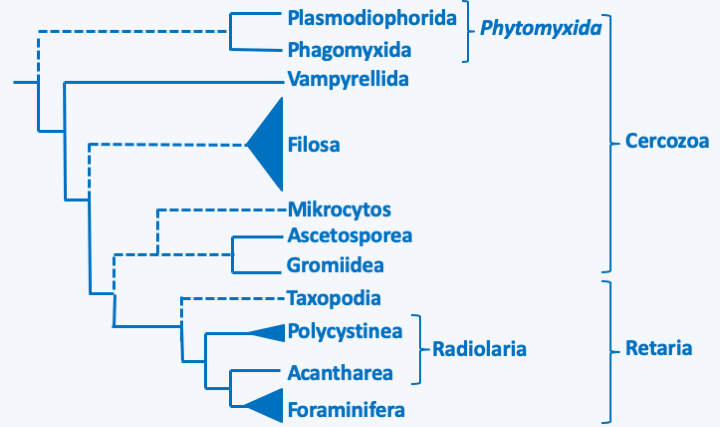
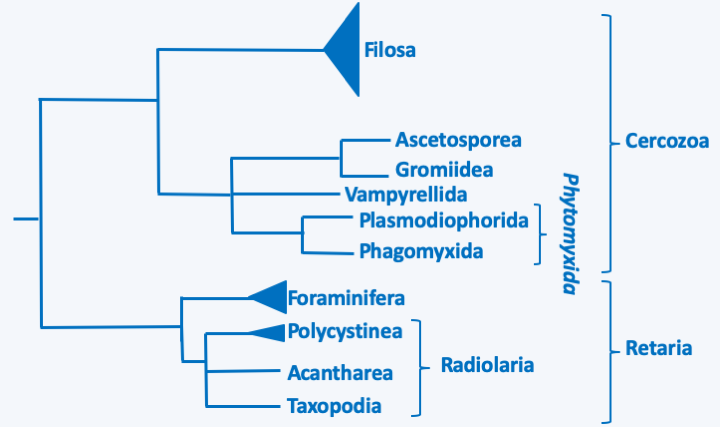
Part 2 done

diff --git a/book/Part2/phylogenetic_classification/sections/Rhizaria.md b/book/Part2/phylogenetic_classification/sections/Rhizaria.md
@@ -17,11 +17,11 @@ Often the different taxa of Rhizaria are only known by a few species. However, t
 
 <br>
 ## Cercozoa
-The Rhizaria super-branch is currently divided into two branches, Cercozoa and Retaria ({%- include fignum.html fn="331.rhizaria-phylo" -%}). However, that of Cercozoa, which groups together many lineages, appears to be paraphyletic. It is therefore probably destined to disappear.
+The Rhizaria super-branch is currently divided into two branches, Cercozoa and Retaria ({%- include fignum.html fn="331.rhizaria-phylo" -%}).
 
 <br>
 ### Plasmodiophorida & Phagomyxida
-The line that seems to diverge first is the Phytomyxida superclass ({%- include fignum.html fn="331.rhizaria-phylo" -%}), of which a few dozen species have been described. They are obligate intracellular parasites of plants, [Ochrophyta]({{ site.baseurl }}{% link book/Part2/phylogenetic_classification/sections/Ochrophyta.md %}) algae or [Oomycota]({{site.baseurl}}/book/Part2/phylogenetic_classification/sections/Stramenopila.html#oomycota) water molds. Two classes are defined, that of Plasmodiophorida which attacks terrestrial organisms and that of Phagomyxida which parasitizes marine organisms ({%- include fignum.html fn="331.rhizaria-phylo" -%}). For a long time, these two lineages were also defined by their hosts, the first attacking plants and the second algae, but the discovery that _Woronina pythii_, a pathogen of [Oomycota]({{site.baseurl}}/book/Part2/phylogenetic_classification/sections/Stramenopila.html#oomycota), is a Plasmodiophorida and that _Plasmodiophora diplanthereae_ which attacks plants is in fact a Phagomyxida has made this criterion obsolete. These organisms have an intracellular plasmodium in trophic form, which for a long time assimilated them with the obligate biotrophic fungi. Mitosis is unique in this group because it presents cross-shaped figures, hence the name cruciform mitosis ({%- include fignum.html fn="332.plasmodiophora" -%}). Phytomyxida disperse with the help of biflagellate zoospores. These enter their host using a characteristic method ({%- include fignum.html fn="333.penetrate" -%}).
+One of the lineages that seems to diverge first is the Phytomyxida superclass ({%- include fignum.html fn="331.rhizaria-phylo" -%}), of which a few dozen species have been described. They are obligate intracellular parasites of plants, [Ochrophyta]({{ site.baseurl }}{% link book/Part2/phylogenetic_classification/sections/Ochrophyta.md %}) algae or [Oomycota]({{site.baseurl}}/book/Part2/phylogenetic_classification/sections/Stramenopila.html#oomycota) water molds. Two classes are defined, that of Plasmodiophorida which attacks terrestrial organisms and that of Phagomyxida which parasitizes marine organisms ({%- include fignum.html fn="331.rhizaria-phylo" -%}). For a long time, these two lineages were also defined by their hosts, the first attacking plants and the second algae, but the discovery that _Woronina pythii_, a pathogen of [Oomycota]({{site.baseurl}}/book/Part2/phylogenetic_classification/sections/Stramenopila.html#oomycota), is a Plasmodiophorida and that _Plasmodiophora diplanthereae_ which attacks plants is in fact a Phagomyxida has made this criterion obsolete. These organisms have an intracellular plasmodium in trophic form, which for a long time assimilated them with the obligate biotrophic fungi. Mitosis is unique in this group because it presents cross-shaped figures, hence the name cruciform mitosis ({%- include fignum.html fn="332.plasmodiophora" -%}). Phytomyxida disperse with the help of biflagellate zoospores. These enter their host using a characteristic method ({%- include fignum.html fn="333.penetrate" -%}).
 
 {% include figure.html figname="332.plasmodiophora" caption="Cruciform mitosis in <i>Plasmodiophora brassicae</i>." %}
 
@@ -34,7 +34,7 @@ Some species of agronomic importance include _Plasmodiophora brassicae_, a paras
 
 <br>
 ### Vampyrellida
-The next class that diverges is that of the Vampyrellida. It currently includes a few dozen species, but metagenomics shows that these organisms are very diverse and ubiquitous in soils as well as freshwater and especially marine sediments. Their trophic stage is naked amoebae with filiform (threadlike) pseudopods, whose mode of nutrition is original ({%- include fignum.html fn="335.vampyrellid" -%}). Indeed, these trophozoites pierce the cell walls of their prey, various algae or yeasts and molds, and suck their contents, like a vampire. Some may, however, swallow their prey completely or penetrate inside and devour its contents. Most species have the potential to produce large plasmodia which result from the fusion of trophozoites. These plasmodia can fuse with each other and reach sizes greater than a millimeter. They can also differentiate several types of cysts, including those involved in digestion after ingestion of prey, or persistent cysts.
+Vampyrellida currently includes a few dozen species, but metagenomics shows that these organisms are very diverse and ubiquitous in soils as well as freshwater and especially marine sediments. Their trophic stage is naked amoebae with filiform (threadlike) pseudopods, whose mode of nutrition is original ({%- include fignum.html fn="335.vampyrellid" -%}). Indeed, these trophozoites pierce the cell walls of their prey, various algae or yeasts and molds, and suck their contents, like a vampire. Some may, however, swallow their prey completely or penetrate inside and devour its contents. Most species have the potential to produce large plasmodia which result from the fusion of trophozoites. These plasmodia can fuse with each other and reach sizes greater than a millimeter. They can also differentiate several types of cysts, including those involved in digestion after ingestion of prey, or persistent cysts.
 
 {% include figure.html figname="335.vampyrellid" caption="Diversity of Vampyrellida." %}
 
@@ -49,7 +49,7 @@ The Filosa sub-branch includes a large set of taxa with the status of class, sub
 
 <br>
 ### Ascetosporea, Gromiida and Mikrocytos
-The last line of Cercozoa, grouping together Ascetosporea, Gromiida and Mikrocytos, is probably monophyletic. Ascetosporea are parasites of aquatic invertebrates, including many shellfish farmed in aquaculture. There are two groups, the Haplosporidia which are intracellular and the Paramyxida which are extracellular and live in the digestive cavities of their hosts. Their life cycles ({%- include fignum.html fn="338.marteilia" -%}) seem complex and poorly understood, but involve the differentiation of plasmodia and/or spores in some of the known species. The Gromiida are free species whose trophic stage consists of a giant, multinucleated plasmodium, protected by an iron-rich protein **test** (shell), spherical or ovoid and pierced with one or more openings ({%- include fignum.html fn="339.gromia" -%}). From these openings emerge filiform pseudopods. Gromiida can grow to sizes of several centimeters. They live on the seabed, sometimes at very great depth, where they move by dragging or rolling and leave characteristic traces. Similar fossil traces have in the past been attributed to small primitive animals... _Mikrocytos mackini_ is an intracellular parasite of oysters ({%- include fignum.html fn="340.mikrocystis" -%}). Molecular phylogenies have great difficulty in resolving its phylogenetic position because its genome evolves very rapidly. It probably derives from Haplosporidia by regressive evolution. Indeed, this organism lacks mitochondria, but probably has a mitosome involved only in the assembly of "iron-sulfur" complexes. A related genus, _Paramikrocytos_, parasitizes crabs.
+The last lineage of Cercozoa, grouping together Ascetosporea and Gromiida, is probably monophyletic. Ascetosporea are parasites of aquatic invertebrates, including many shellfish farmed in aquaculture. There are two groups, the Haplosporidia which are intracellular and the Paramyxida which are extracellular and live in the digestive cavities of their hosts. Their life cycles ({%- include fignum.html fn="338.marteilia" -%}) seem complex and poorly understood, but involve the differentiation of plasmodia and/or spores in some of the known species. The Gromiida are free species whose trophic stage consists of a giant, multinucleated plasmodium, protected by an iron-rich protein **test** (shell), spherical or ovoid and pierced with one or more openings ({%- include fignum.html fn="339.gromia" -%}). From these openings emerge filiform pseudopods. Gromiida can grow to sizes of several centimeters. They live on the seabed, sometimes at very great depth, where they move by dragging or rolling and leave characteristic traces. Similar fossil traces have in the past been attributed to small primitive animals... _Mikrocytos mackini_ is an intracellular parasite of oysters ({%- include fignum.html fn="340.mikrocystis" -%}). Molecular phylogenies have great difficulty in resolving its phylogenetic position because its genome evolves very rapidly. It probably derives from Haplosporidia by regressive evolution. Indeed, this organism lacks mitochondria, but probably has a mitosome involved only in the assembly of "iron-sulfur" complexes. A related genus, _Paramikrocytos_, parasitizes crabs.
 
 {% include figure.html figname="338.marteilia" caption="Life cycle of <i>Marteilia refringens</i>. This species belonging to Paramyxea is an extracellular parasite of the oysters <i>Ostrea edulis</i>. The postulated cycle begins with the presence of so-called primary cells mainly within the digestive epithelium and gills. These cells proliferate, possibly schizogonically, and invade the host. Then, the secondary cells differentiate into primordia, which will internally sporulate spores. The spores themselves are made up of three cells nested within each other (see nuclei N1, N2 and N3). How spores return primary cells, as well as the locations of fertilization and meiosis, are still subject to conjecture. It is possible that there is a second host in which <i>Marteilia refringens</i> completes its cycle." %}
 
@@ -60,7 +60,7 @@ The last line of Cercozoa, grouping together Ascetosporea, Gromiida and Mikrocyt
 
 <br>
 ## Retaria
-The Retaria phylum includes amoeboid phagotrophic organisms with long and thin, more or less reticulated pseudopodia. Traditionally, two classes were defined. That of the "Radiolaria" included organisms in the form of the sun, like the heliozoans, but which had an internal delineation in ectoplasm and endoplasm. Their internal cytoskeleton was composed of radiating spicules of variable composition, though not calcareous. That of [Foraminifera](#foraminifera) included organisms possessing reticulated pseudopods and for the most part possessing an organic test, calcified in many species. Molecular phylogenies indicate that [Foraminifera](#foraminifera) appear to form a monophyletic group which diverges from a paraphyletic complex of Radiolaria (Figure 331). In addition, a part of the old Radiolaria, now classified in the class Phaeodarea ({%- include fignum.html fn="336.filosa" -%}), left the group because these organisms are in fact Cercozoa related to the [Filosa](#filosa).
+The Retaria phylum includes amoeboid phagotrophic organisms with long and thin, more or less reticulated pseudopodia. Traditionally, two classes were defined. That of the "Radiolaria" included organisms in the form of the sun, like the heliozoans, but which had an internal delineation in ectoplasm and endoplasm. Their internal cytoskeleton was composed of radiating spicules of variable composition, though not calcareous. That of [Foraminifera](#foraminifera) included organisms possessing reticulated pseudopods and for the most part possessing an organic test, calcified in many species. A part of the old Radiolaria, now classified in the class Phaeodarea ({%- include fignum.html fn="336.filosa" -%}), left the group because these organisms are in fact Cercozoa related to the [Filosa](#filosa).
 
 <br>
 ### Taxopodia

diff --git a/book/Part2/phylogenetic_classification/sections/conclusion.md b/book/Part2/phylogenetic_classification/sections/conclusion.md
@@ -3,10 +3,12 @@ layout: section
 title: Conclusion
 category: Phylogenetic classification
 ---
-The inventory of the diversity of eukaryotes and their modern classification carried out mainly through sequence data has led us to revise our vision of their evolution. The old dichotomy between animal and plant had been undermined by the discovery of a first type of cell without nucleus, bacteria, then a second still without nucleus, archaea. Modern phylogenies have shown that this dichotomy, as well as a partition into four realms, is also not valid for eukaryotes (Figure 349). On the contrary, from these phylogenies, a story seems to emerge that would begin with a small biflagellate protozoan which, to feed itself, would have phagocytosed bacteria through its ventral groove, in agreement with the theory of the phagotrophic origin of the eukaryotic cell (see pages 35-37). Indeed, eukaryotes exhibiting this biology are present in Amorphea, Excavata and Diaphoretickes. Additionally, they appear to plug into the base of trees from all three of these groups, suggesting that this type of lifestyle and makeup is ancestral. This ancestor would therefore already have acquired all of the attributes of the eukaryotic cell: a nucleus with a sexual cycle, the reticulum / golgi system associated with the nucleus and the capacity to perform endocytosis / exocytosis, an actin and tubulin cytoskeleton with associated structures such as flagella but also probably pseudopodia, and finally mitochondria potentially capable of breathing oxygen, but also probably capable of producing hydrogen in anoxia.
+The inventory of the diversity of eukaryotes and their modern classification carried out mainly through sequence data has led us to revise our vision of their evolution. The old dichotomy between animal and plant had been undermined by the discovery of a first type of cell without nucleus, bacteria, then a second still without nucleus, archaea. Modern phylogenies have shown that this dichotomy, as well as a partition into four realms, is also not valid for eukaryotes ({%- include fignum.html fn="349.euk-tree.png" -%}). On the contrary, from these phylogenies, a story seems to emerge that would begin with a small biflagellate protozoan which, to feed itself, would have phagocytosed bacteria through its ventral groove, in agreement with the theory of the phagotrophic origin of the eukaryotic cell. Indeed, eukaryotes exhibiting this biology are present in Amorphea, Excavata and Diaphoretickes. Additionally, they appear to plug into the base of trees from all three of these groups, suggesting that this type of lifestyle and makeup is ancestral. This ancestor would therefore already have acquired all of the attributes of the eukaryotic cell: a nucleus with a sexual cycle, the reticulum/golgi system associated with the nucleus and the capacity to perform endocytosis/exocytosis, an actin and tubulin cytoskeleton with associated structures such as flagella but also probably pseudopodia, and finally mitochondria potentially capable of breathing oxygen, but also probably capable of producing hydrogen in anoxia.
 
-The fate of this small protozoan was complex because it evolved from other ways of living repetitively (Figure 349). It was able to maintain a phagotrophic lifestyle, but often perfected its prey capture system. The flagella have changed: disappearance of one of the two flagella and displacement of its insertion backwards in Opisthokonta and some Diaphoretickes, multiplication to give ciliature, particularly in _Ciliophora_, but also in _Opalinata_ and _Pseudociliata_. The amoebic form has been favored and the pseudopods have adopted various morphologies, lobed, filiform, reticulated, radiating, etc., the different types favoring either hunting or fishing for prey. The trophic form increased in size to recurrently adopt a plasmodium-like form. The way of dispersing has also evolved, often with the establishment of an aggregative multicellularity. The predatory lifestyle culminated, of course, in animals where the increase in size involved the establishment of a complex multicellularity. In this group, phagotrophy was replaced by ingestion, a process identical in its course, but adapted to an organism with a mouth and a stomach.
+{% include figure.html figname="349.euk-tree.png" caption="Global phylogeny of eukaryota." %}
 
-The phagotrophy was lost more or less gradually either as a result of endosymbiosis of a cyanobacterium or after the establishment of an osmotrophic diet. We have seen the complexity of the placement of plastids in different groups of algae, explaining the mosaic of photosynthetic taxa. Osmotrophy has been adopted primarily by fungal-like organisms that emerge at least twice during evolution (Figure 349). In this case, it probably responds to the increasing availability in ecosystems of complex plant matter following the appearance of algae, then plants. It has also been adopted by parasitic organisms, especially those that live inside their host's cells. Parasitism has been adopted recurrently during evolution (Figure 349). Parasitism engages in a race for so-called Red Queen evolution. One of the results of this race is the status quo, even the emergence of mosaic organizations where each of the two partners lives as a mutualist. These complex organisms then have a selective advantage and can invade ecosystems. The establishment of the eukaryotic cell is the result of such a phenomenon. This is repeated recurrently with the establishment of plastids, lichens, various syntrophies ... In many lineages, these phenomena have been accompanied by the establishment of a more or less complex multicellularity. This takes its most successful forms in animals, plants, but also in Dikarya and Phaeophyta.
+The fate of this small protozoan was complex because it evolved from other ways of living repetitively ({%- include fignum.html fn="349.euk-tree.png" -%}). It was able to maintain a phagotrophic lifestyle, but often perfected its prey capture system. The flagella have changed: disappearance of one of the two flagella and displacement of its insertion backwards in Opisthokonta and some Diaphoretickes, multiplication to give ciliature, particularly in _Ciliophora_, but also in _Opalinata_ and _Pseudociliata_. The amoebic form has been favored and the pseudopods have adopted various morphologies, lobed, filiform, reticulated, radiating, etc., the different types favoring either hunting or fishing for prey. The trophic form increased in size to recurrently adopt a plasmodium-like form. The way of dispersing has also evolved, often with the establishment of an aggregative multicellularity. The predatory lifestyle culminated, of course, in animals where the increase in size involved the establishment of a complex multicellularity. In this group, phagotrophy was replaced by ingestion, a process identical in its course, but adapted to an organism with a mouth and a stomach.
 
-In summary, we must substitute a tree where the main branches are defined by the morphology or the lifestyle (Figure 63), with one where the main and secondary branches are essentially defined by phylogenic and molecular signatures combined with ultrastructural data (Figure 349)...
+The phagotrophy was lost more or less gradually either as a result of endosymbiosis of a cyanobacterium or after the establishment of an osmotrophic diet. We have seen the complexity of the placement of plastids in different groups of algae, explaining the mosaic of photosynthetic taxa. Osmotrophy has been adopted primarily by fungal-like organisms that emerge at least twice during evolution. In this case, it probably responds to the increasing availability in ecosystems of complex plant matter following the appearance of algae, then plants. It has also been adopted by parasitic organisms, especially those that live inside their host's cells. Parasitism has been adopted recurrently during evolution (Figure 349). Parasitism engages in a race for so-called Red Queen evolution. One of the results of this race is the status quo, even the emergence of mosaic organizations where each of the two partners lives as a mutualist. These complex organisms then have a selective advantage and can invade ecosystems. The establishment of the eukaryotic cell is the result of such a phenomenon. This is repeated recurrently with the establishment of plastids, lichens, various syntrophies ... In many lineages, these phenomena have been accompanied by the establishment of a more or less complex multicellularity. This takes its most successful forms in animals, plants, but also in Dikarya and Phaeophyta.
+
+In summary, we must substitute a tree where the main branches are defined by the morphology or the lifestyle ([Figure 63](({{site.baseurl}}/book/Part2/history_of_classification/sections/attempts_at_classification.html#haeckel-tree))), with one where the main and secondary branches are essentially defined by phylogenic and molecular signatures combined with ultrastructural data ({%- include fignum.html fn="349.euk-tree.png" -%})...

diff --git a/book/Part2/phylogenetic_classification/sections/Stramenopila.md b/book/Part2/phylogenetic_classification/sections/Stramenopila.md
@@ -10,7 +10,7 @@ _Jump to section:_
 <br>
 ## Introduction
 The Stramenopila super-phylogeny, also informally called "heterokonts", has been defined primarily by molecular phylogenies. Together with **[Alveolata]({{ site.baseurl }}{% link book/Part2/phylogenetic_classification/sections/Alveolata.md %})**
-and **[Rhizaria]({{ site.baseurl }}{% link book/Part2/phylogenetic_classification/sections/Rhizaria.md %})**, it forms a monophyletic group known either by the acronym SAR (Stramenopiles + Alveolata + Rhizaria) or by the name Harosa. They bring together many organism groups that at a glance have little in common. Presumably, this is the group of eukaryotes in which evolution has experienced the greatest number of planes of unicellular and multicellular organization. It is also one of the most successful groups of eukaryotes, which has invaded practically all biotopes. Stramenopila proliferate in marine, freshwater and also terrestrial environments. They have explored many ways of living, since the super-branch contains phagotrophs, fungal-like organisms, algae, as well as parasitic or mutualistic symbionts. Currently known species represent only a small part of their diversity, as metagenomic analyzes have identified more than ten lineages about which nothing is known so far. The phylogeny in {%- include fignum.html fn="254.heterokonts" -%} therefore only indicates lines for which species have been characterized other than by just metagenomic analyzes.
+and **[Rhizaria]({{ site.baseurl }}{% link book/Part2/phylogenetic_classification/sections/Rhizaria.md %})**, it forms a monophyletic group known either by the acronym SAR (Stramenopiles + Alveolata + Rhizaria) or by the name Harosa. They bring together many organism groups that at a glance have little in common. Presumably, this is the group of eukaryotes in which evolution has experienced the greatest number of planes of unicellular and multicellular organization. It is also one of the most successful groups of eukaryotes, which has invaded practically all biotopes. Stramenopila proliferate in marine, freshwater and also terrestrial environments. They have explored many ways of living, since the super-branch contains phagotrophs, fungal-like organisms, algae, as well as parasitic or mutualistic symbionts. Currently known species represent only a small part of their diversity, as metagenomic analyzes have identified more than ten lineages about which nothing is known so far. The phylogeny in &nbsp;{%- include fignum.html fn="254.heterokonts" -%}&nbsp; therefore only indicates lines for which species have been characterized other than by just metagenomic analyzes.
 
 {% include figure.html figname="254.heterokonts" caption="Phylogeny of Stramenopiles." %}
 
@@ -59,7 +59,7 @@ The 600 species of Oomycota had an evolution very similar to that of [Eumycota](
 {% include figure.html figname="263.oomycota" caption="Phylogeny of Oomycota." %}
 
 
-At the base of the tree, a monophyletic line unites the _Haptoglossa_ and the species _Eurychasma dickinsoni_ ({%- include fignum.html fn="263.oomycota" -%}). While _Eurychasma dickinsoni_ clearly possesses typical fungal biology, _Haptoglossa_ are sufficiently dissimilar to merit separate treatment. Species of this genus are single-celled parasites of nematodes and rotifers that have developed a very sophisticated 15-micron cell to get inside their host: the gun cell ({%- include fignum.html fn="264.haptoglossa" -%}). This mechanism allows the parasite to forcefully penetrate the nematode in the same way that [Microsporidia]({{site.baseurl}}/book/Part2/phylogenetic_classification/sections/Holomycota.html#microsporidia) penetrate their host or Cnidaria cnidoblasts inject their poison. Once in the nematode, _Haptoglossa_ form one or more multinucleated thalli surrounded by walls and which eventually differentiate into a sporangium. In some species, the spores are motile and encyst, while in others they are non-motile. When differentiated, the zoospores are biflagellate but do not appear to exhibit the typical mastigonemes of the group; it seems, however, that some species have some residual mastigonemes at the base of one of the flagella. The only species in the genus _Eurychasma_, _Eurychasma dickinsoni_, infects a large number of species of [Phaeophyta]({{site.baseurl}}/book/Part2/phylogenetic_classification/sections/Ochrophyta.html#phaeophyta) algae. It has a holocarpic cycle that strongly resembles that of early diverging fungi such as [Chytridiomycota]({{site.baseurl}}/book/Part2/phylogenetic_classification/sections/Eumycota.html#chytridiomycota). Compare the life cycle in [Figure 119]({{site.baseurl}}/book/Part2/phylogenetic_classification/sections/Eumycota.html#olpidium_life) with that of _Eurychasma dickinsoni_ shown in {%- include fignum.html fn="265.eurychasma" -%}...
+At the base of the tree, a monophyletic line unites the _Haptoglossa_ and the species _Eurychasma dickinsoni_ ({%- include fignum.html fn="263.oomycota" -%}). While _Eurychasma dickinsoni_ clearly possesses typical fungal biology, _Haptoglossa_ are sufficiently dissimilar to merit separate treatment. Species of this genus are single-celled parasites of nematodes and rotifers that have developed a very sophisticated 15-micron cell to get inside their host: the gun cell ({%- include fignum.html fn="264.haptoglossa" -%}). This mechanism allows the parasite to forcefully penetrate the nematode in the same way that [Microsporidia]({{site.baseurl}}/book/Part2/phylogenetic_classification/sections/Holomycota.html#microsporidia) penetrate their host or Cnidaria cnidoblasts inject their poison. Once in the nematode, _Haptoglossa_ form one or more multinucleated thalli surrounded by walls and which eventually differentiate into a sporangium. In some species, the spores are motile and encyst, while in others they are non-motile. When differentiated, the zoospores are biflagellate but do not appear to exhibit the typical mastigonemes of the group; it seems, however, that some species have some residual mastigonemes at the base of one of the flagella. The only species in the genus _Eurychasma_, _Eurychasma dickinsoni_, infects a large number of species of [Phaeophyta]({{site.baseurl}}/book/Part2/phylogenetic_classification/sections/Ochrophyta.html#phaeophyta) algae. It has a holocarpic cycle that strongly resembles that of early diverging fungi such as [Chytridiomycota]({{site.baseurl}}/book/Part2/phylogenetic_classification/sections/Eumycota.html#chytridiomycota). Compare the life cycle in [Figure 119]({{site.baseurl}}/book/Part2/phylogenetic_classification/sections/Eumycota.html#olpidium_life) with that of _Eurychasma dickinsoni_ shown in &nbsp;{%- include fignum.html fn="265.eurychasma" -%}...
 
 {% include figure.html figname="264.haptoglossa" caption="<i>Haptoglossa mirabilis</i> life cycle." %}
 
